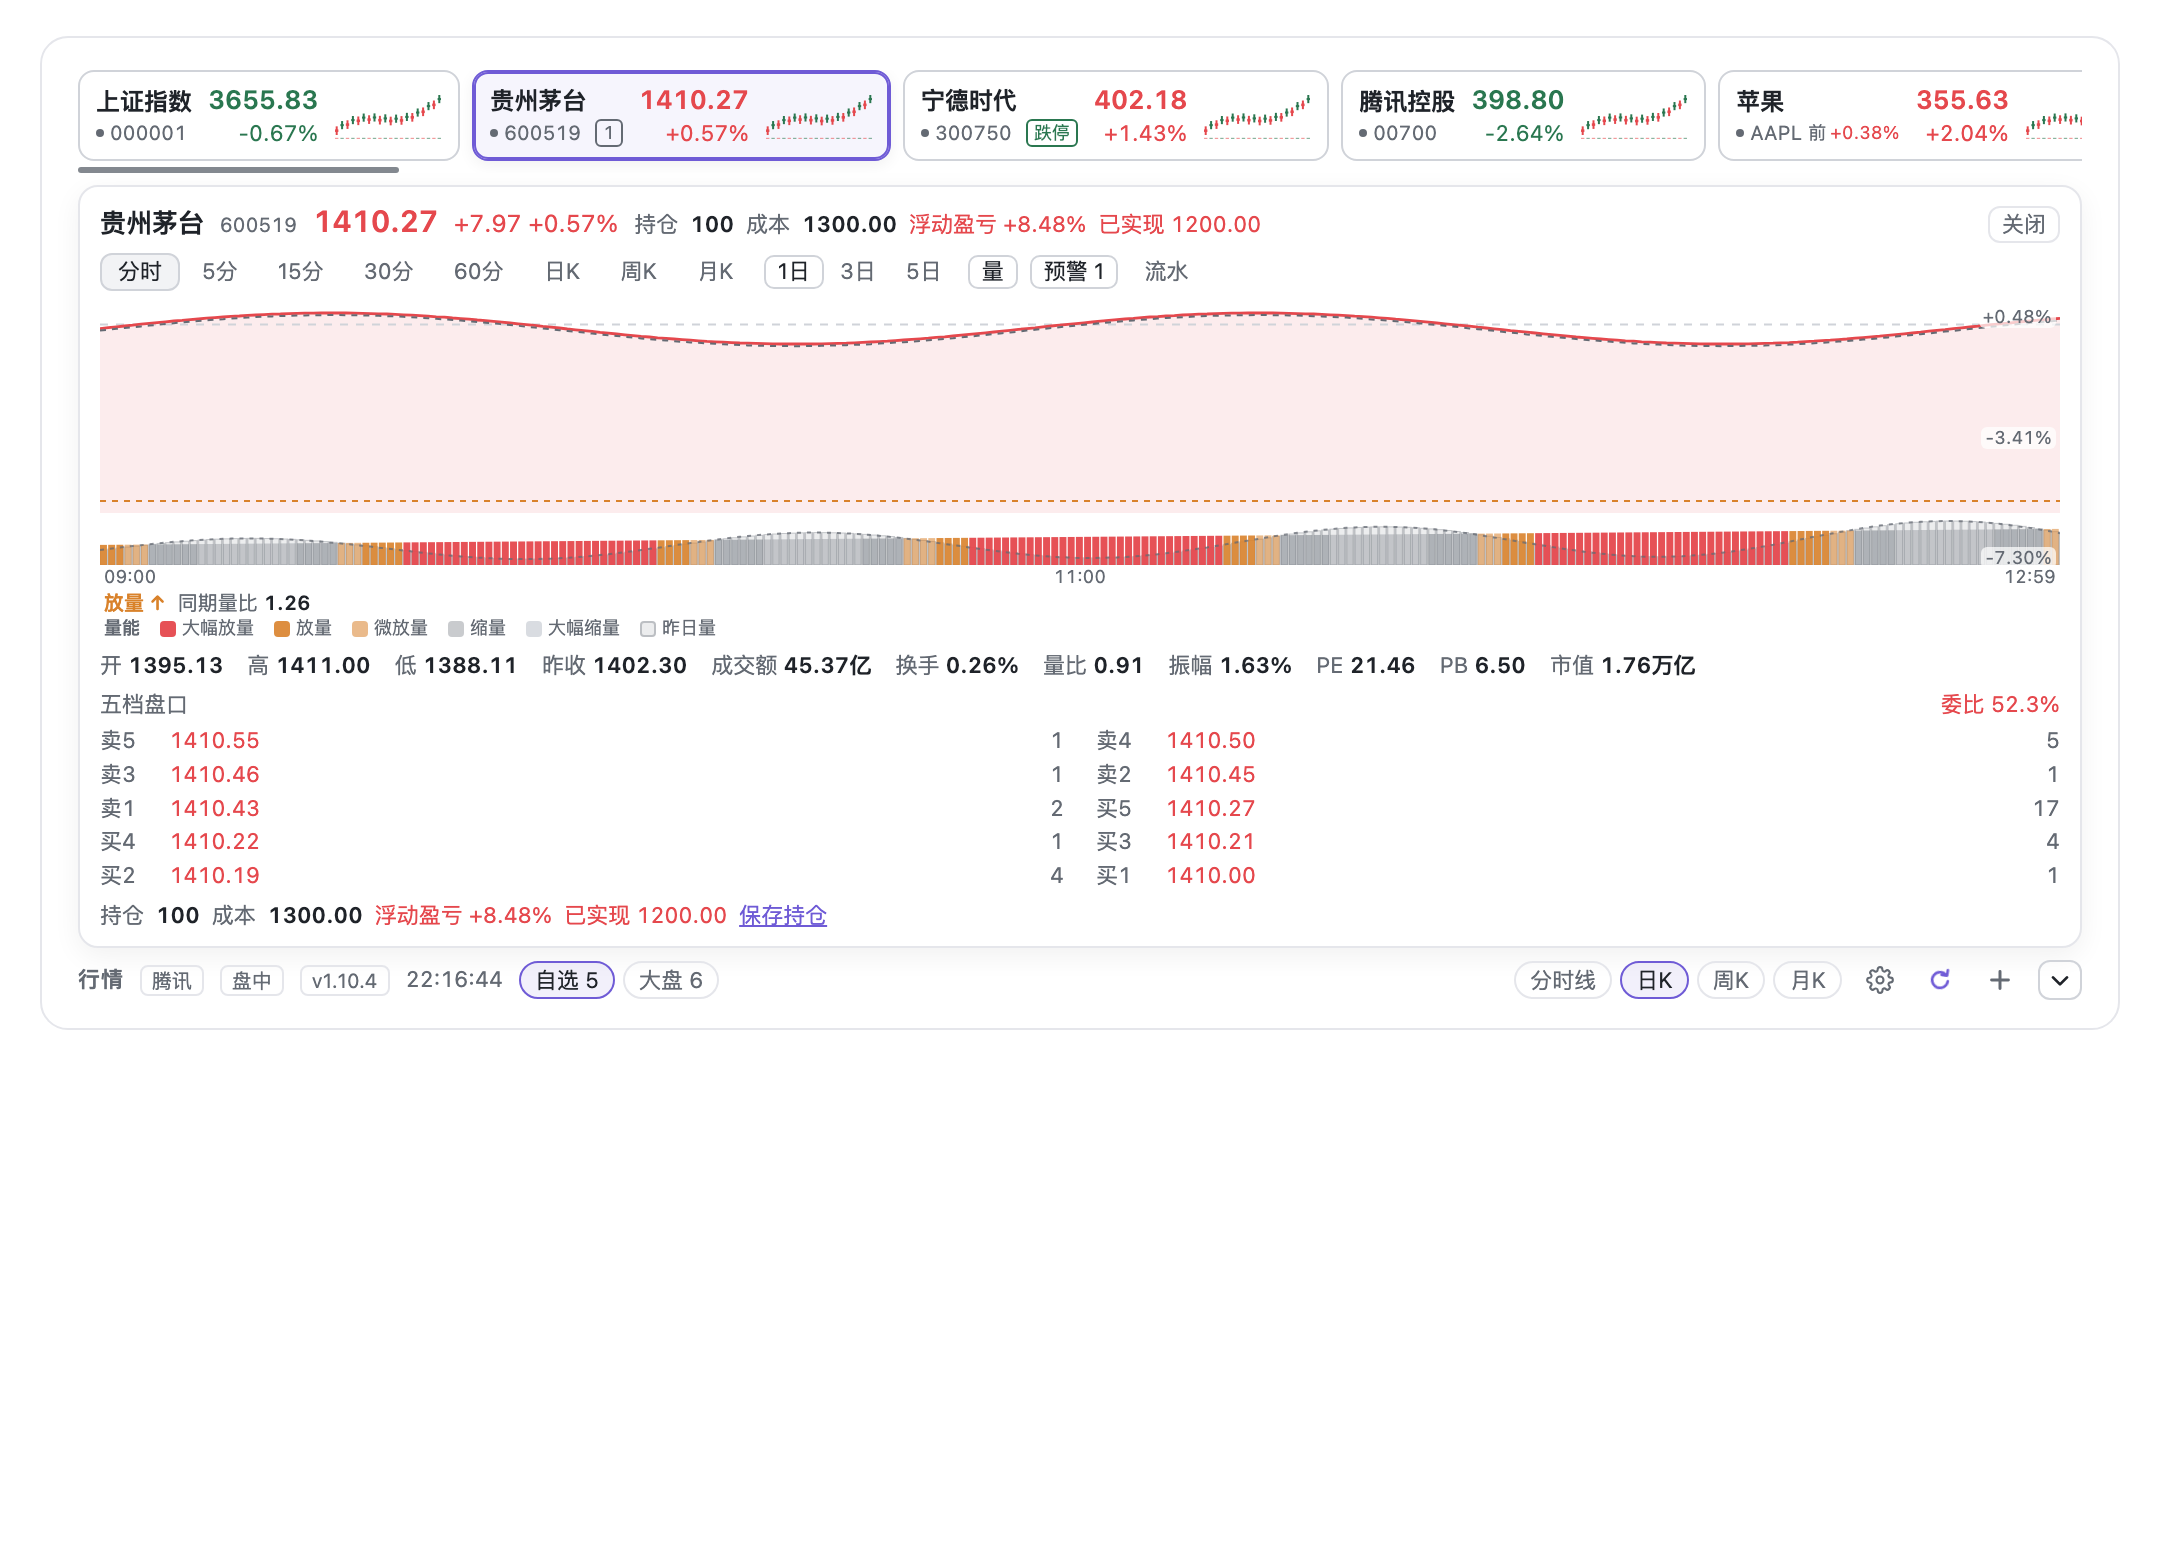
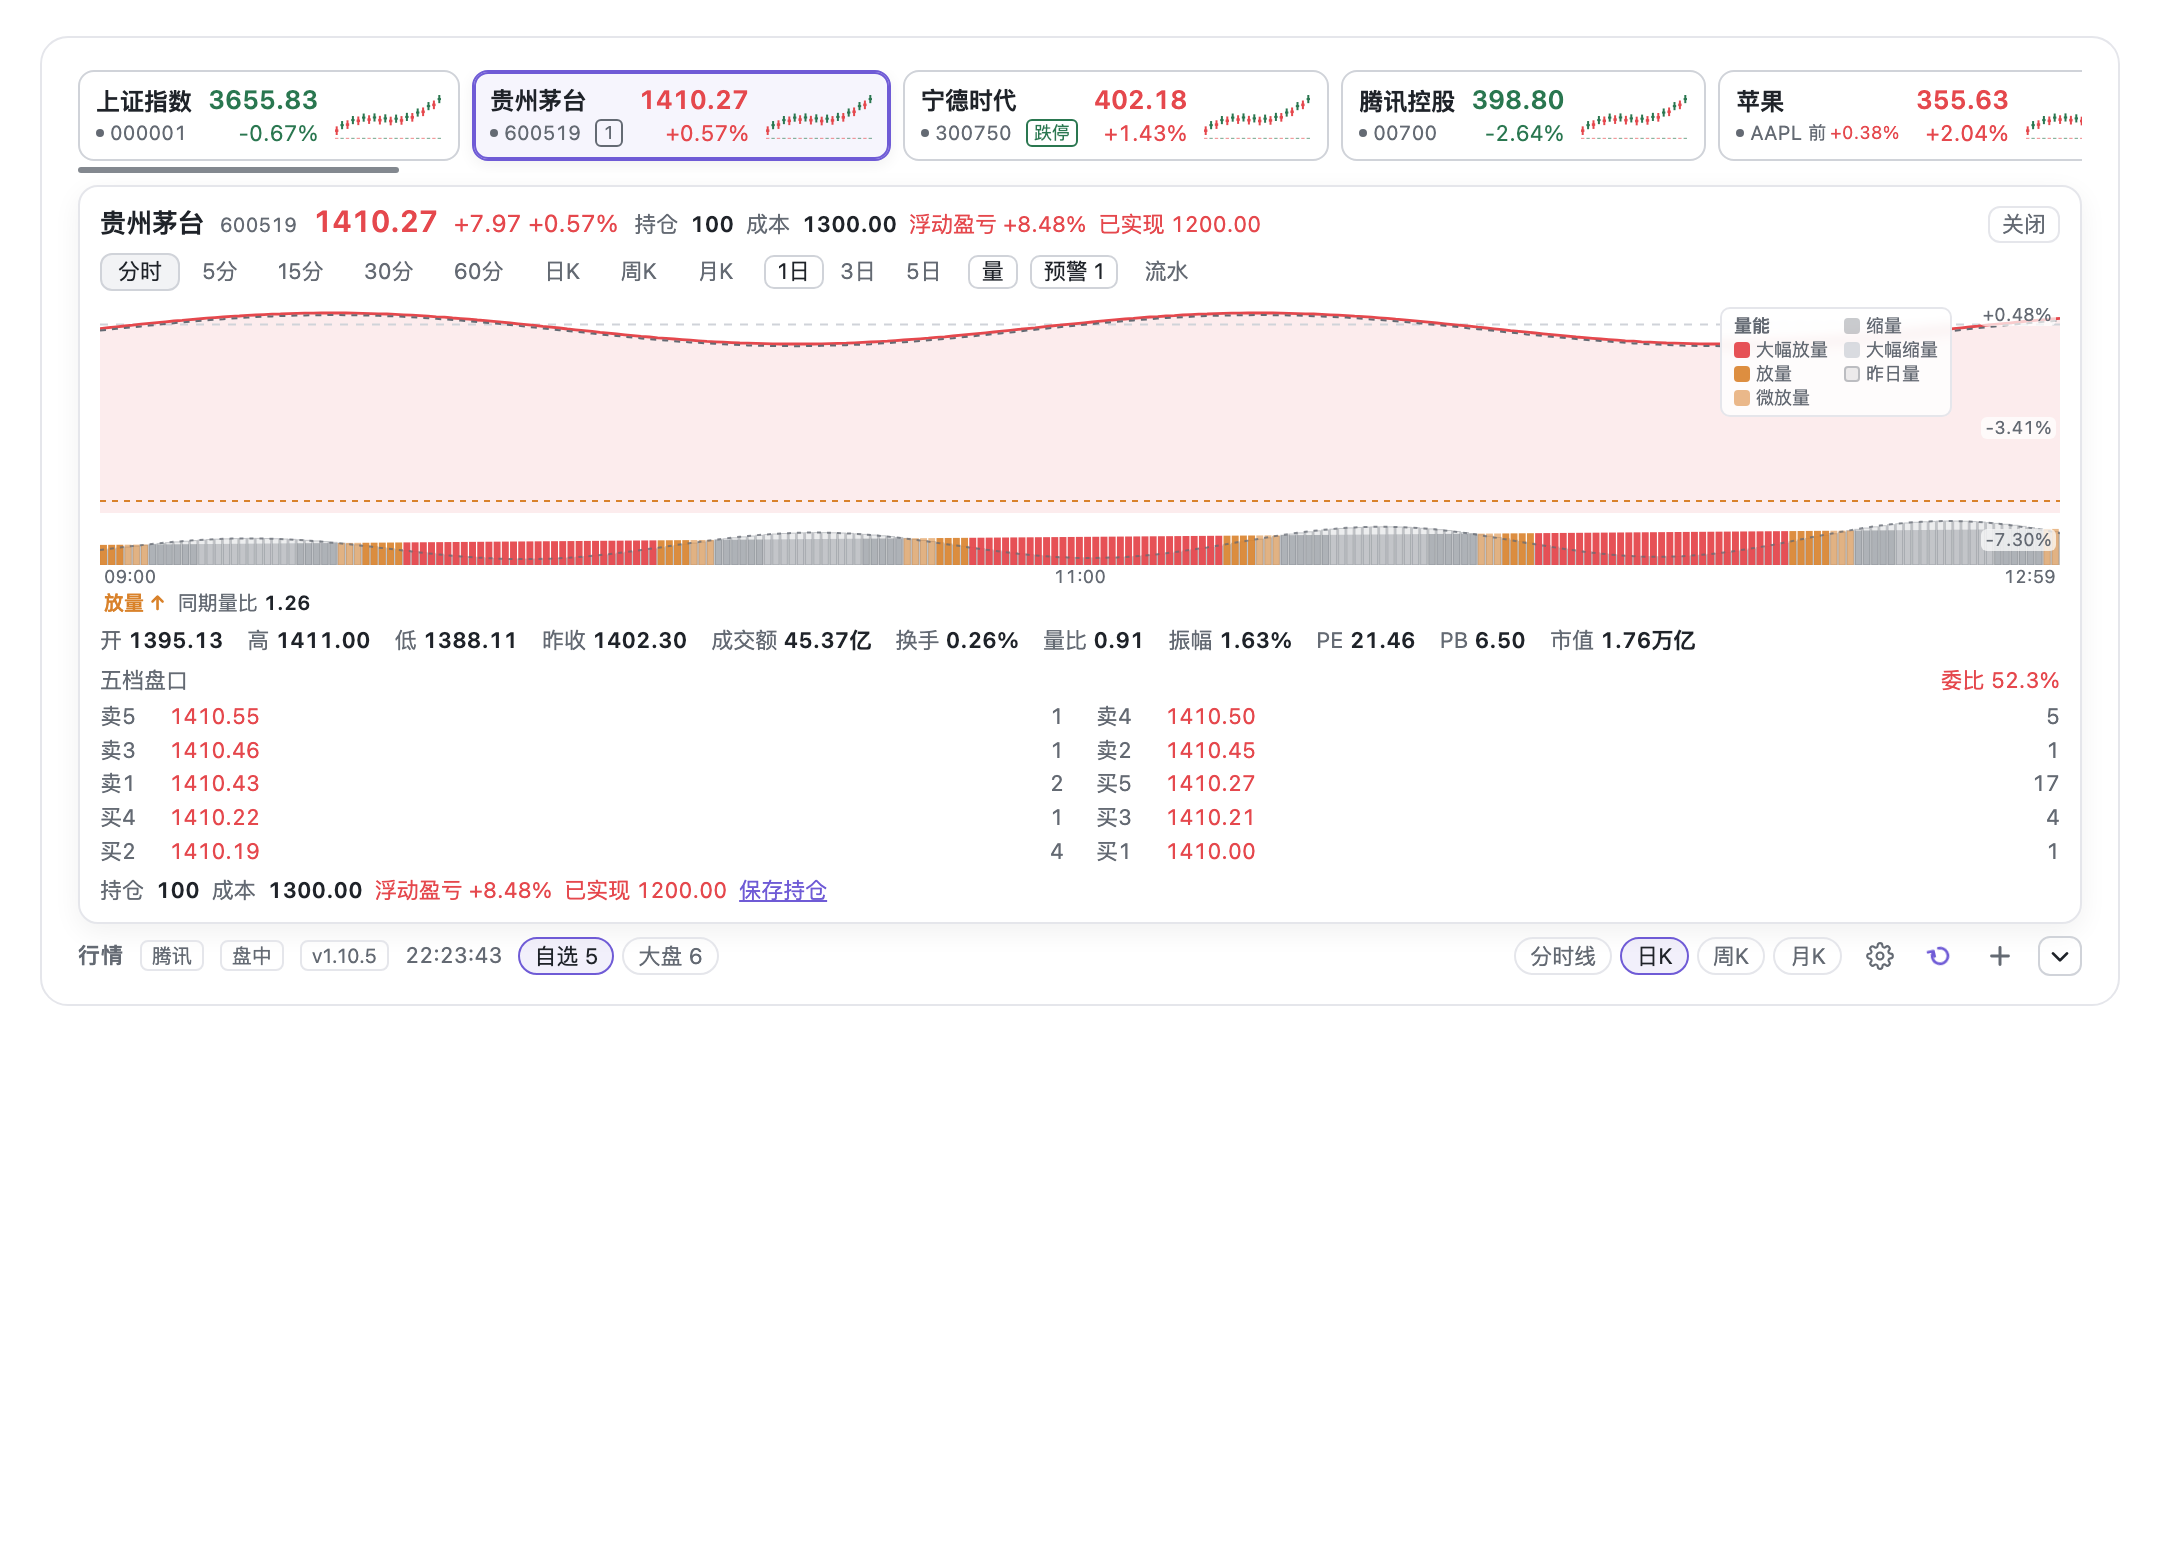
style(charts): move the volume legend into the chart's top-right (1.10.5)
The legend occupied its own row under the chart. It is now a compact two-column
overlay in the chart's empty top-right corner, translucent so the price line
still shows through; the signal/ratio line stays below the chart. Applies to the
intraday and minute-K charts.

- Screenshots refreshed. 84 tests.

Local commit only; not pushed.

diff --git a/client.js b/client.js
@@ -16,7 +16,7 @@ window.__ModuleLoader__.load({
     const { useCallback, useEffect, useMemo, useRef, useState } = React
 
     const NS = 'stockTicker'
-    const BUILD = 'v1.10.4'
+    const BUILD = 'v1.10.5'
     const ENDPOINT = '/dsh-stock-ticker'
     const COLLAPSE_KEY = 'dsh-stock-ticker:collapsed'
     const STYLE_ID = 'stock-ticker'
@@ -629,14 +629,25 @@ window.__ModuleLoader__.load({
 .dshst-volumeSignal[data-trend="down"],
 .dshst-volumeSignal[data-trend="flat"] { color: var(--dsw-alias-label-secondary); }
 .dshst-volumeLegend {
-  display: flex;
-  align-items: center;
-  flex-wrap: wrap;
-  gap: 4px 10px;
-  padding: 0 2px;
+  position: absolute;
+  top: 3px;
+  right: 54px;
+  z-index: 2;
+  display: grid;
+  grid-template-columns: repeat(2, auto);
+  grid-template-rows: repeat(4, auto);
+  grid-auto-flow: column;
+  gap: 1px 8px;
+  padding: 3px 6px;
+  border: 1px solid var(--dsw-alias-border-l1);
+  border-radius: 5px;
+  background: color-mix(in srgb, var(--dsw-alias-bg-layer-1) 82%, transparent);
+  backdrop-filter: blur(3px);
   color: var(--dsw-alias-label-secondary);
   font-size: 9px;
+  line-height: 11px;
   font-variant-numeric: tabular-nums;
+  pointer-events: none;
 }
 .dshst-volumeLegendTitle {
   color: var(--dsw-alias-label-secondary);

diff --git a/CHANGELOG.md b/CHANGELOG.md
@@ -586,3 +586,11 @@ Settings discoverability and the options the strip was missing.
   still shows how much yesterday traded, not just a colour. Hovering keeps the
   numeric `昨 ...` reading.
 - Applies to the intraday band and 5/15/30/60-minute K. 84 tests.
+
+## 1.10.5 — 2026-11-13
+
+- Moved the volume legend from a row under the chart to a compact overlay in
+  the chart's empty top-right corner (two columns, four rows, translucent
+  surface). It no longer costs vertical space; the signal/ratio line stays below
+  the chart. Applies to the intraday and minute-K charts.
+- Screenshots refreshed. 84 tests.

diff --git a/README.md b/README.md
@@ -2,7 +2,7 @@
 
 **中文** · [English](README.en.md)
 
-![version](https://img.shields.io/badge/version-1.10.4-blue)
+![version](https://img.shields.io/badge/version-1.10.5-blue)
 ![license](https://img.shields.io/badge/license-MIT-green)
 ![dsh](https://img.shields.io/badge/DSH-0.2.x-6f5bd6)
 ![data](https://img.shields.io/badge/data-Tencent%20%7C%20Sina%20%7C%20Eastmoney-orange)

diff --git a/README.en.md b/README.en.md
@@ -2,7 +2,7 @@
 
 [中文](README.md) · **English**
 
-![version](https://img.shields.io/badge/version-1.10.4-blue)
+![version](https://img.shields.io/badge/version-1.10.5-blue)
 ![license](https://img.shields.io/badge/license-MIT-green)
 ![dsh](https://img.shields.io/badge/DSH-0.2.x-6f5bd6)
 ![data](https://img.shields.io/badge/data-Tencent%20%7C%20Sina%20%7C%20Eastmoney-orange)
